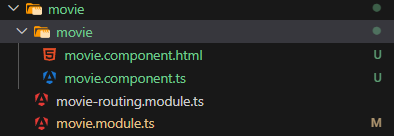
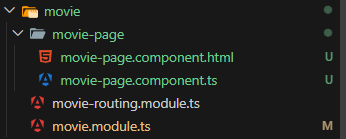
Refactor

diff --git a/1- Angular application/MyComponentApp/src/app/movie/movie.module.ts b/1- Angular application/MyComponentApp/src/app/movie/movie.module.ts
@@ -2,16 +2,10 @@ import { NgModule } from '@angular/core';
 import { CommonModule } from '@angular/common';
 
 import { MovieRoutingModule } from './movie-routing.module';
-import { MovieComponent } from './movie/movie.component';
-
+import { MoviePageComponent } from './movie-page/movie-page.component';
 
 @NgModule({
-  declarations: [
-    MovieComponent
-  ],
-  imports: [
-    CommonModule,
-    MovieRoutingModule
-  ]
+  declarations: [MoviePageComponent],
+  imports: [CommonModule, MovieRoutingModule],
 })
-export class MovieModule { }
+export class MovieModule {}

diff --git a/1- Angular application/MyComponentApp/src/app/movie/movie-page/movie-page.component.ts b/1- Angular application/MyComponentApp/src/app/movie/movie-page/movie-page.component.ts
@@ -1,0 +1,10 @@
+import { Component } from '@angular/core';
+
+@Component({
+  selector: 'app-movie-page',
+  templateUrl: './movie-page.component.html',
+  styles: ``
+})
+export class MoviePageComponent {
+
+}

diff --git a/1- Angular application/MyComponentApp/src/app/movie/movie-page/movie-page.component.html b/1- Angular application/MyComponentApp/src/app/movie/movie-page/movie-page.component.html
@@ -1,0 +1,1 @@
+<p>movie-page works!</p>
